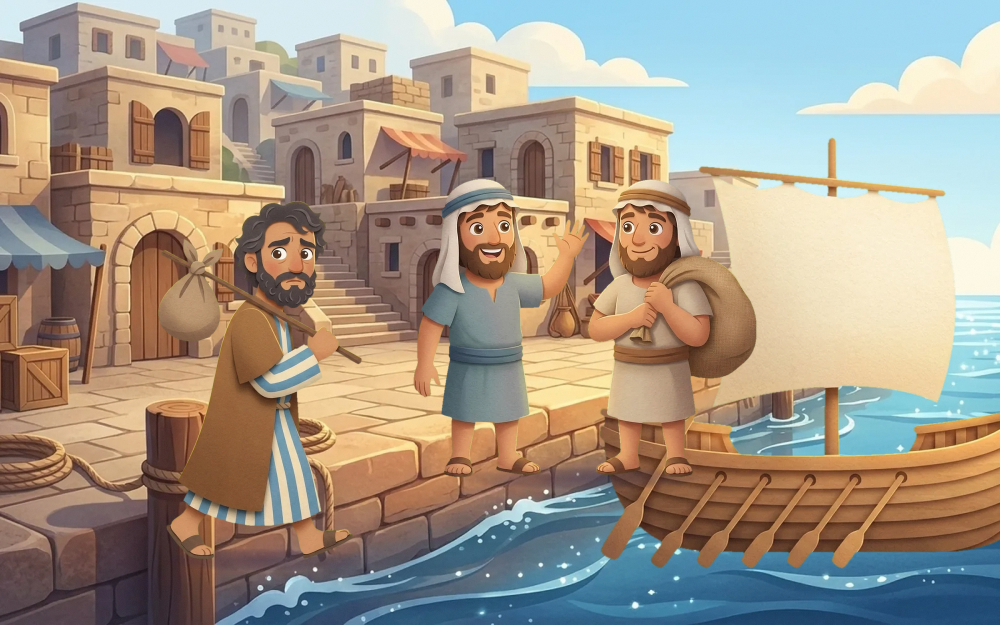
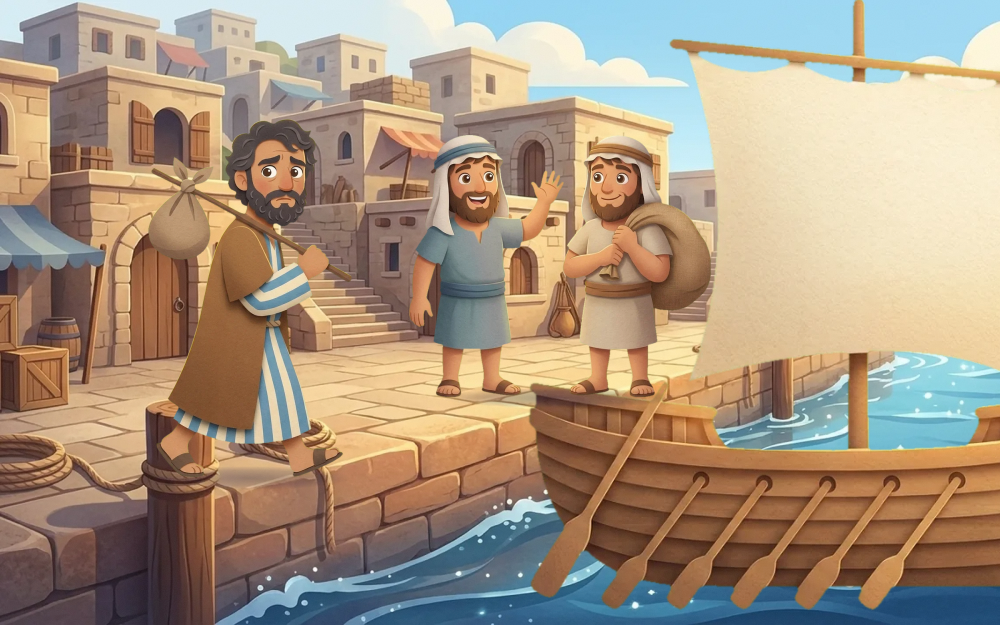
Stand the harbour figures on the quay, enlarge the ship, shuffle quiz choices
Jonah and the sailors were placed below the quay's front edge and read as
floating; their feet now sit on the top surface and the ship is moored at
the edge at 0.88. Quiz choices are shuffled once per quiz so the right
answer is no longer always the first option; story data still lists it
first for readability.

diff --git a/src/scenes/jonah.tsx b/src/scenes/jonah.tsx
@@ -61,17 +61,17 @@ export function RunningAway({ found }: SceneArtProps) {
     <>
       <Backdrop src={runBg} />
       {/* the ship rides at the quay's edge, on the water */}
-      <g transform="translate(840 570)">
+      <g transform="translate(870 612)">
         <g className="a-rock">
-          <image href={runShip} x={-L.ship.w * 0.31} y={-L.ship.h * 0.62} width={L.ship.w * 0.62} height={L.ship.h * 0.62} />
+          <image href={runShip} x={-L.ship.w * 0.44} y={-L.ship.h * 0.88} width={L.ship.w * 0.88} height={L.ship.h * 0.88} />
         </g>
       </g>
-      <SoftShadow x={585} y={478} rx={130} ry={12} opacity={0.4} />
-      <Layer src={runSailors} w={L.sailors.w} h={L.sailors.h} x={585} y={478} scale={0.5} className="a-breathe-slow">
+      <SoftShadow x={560} y={398} rx={120} ry={10} opacity={0.4} />
+      <Layer src={runSailors} w={L.sailors.w} h={L.sailors.h} x={560} y={398} scale={0.44} className="a-breathe-slow">
         <Eyelids {...EYES.sailors} w={L.sailors.w} h={L.sailors.h} delay={2.1} />
       </Layer>
-      <SoftShadow x={260} y={560} rx={100} ry={12} opacity={0.4} />
-      <Layer src={runJonah} w={L["jonah-walk"].w} h={L["jonah-walk"].h} x={260} y={560} scale={0.4} className="a-breathe">
+      <SoftShadow x={250} y={478} rx={100} ry={12} opacity={0.4} />
+      <Layer src={runJonah} w={L["jonah-walk"].w} h={L["jonah-walk"].h} x={250} y={478} scale={0.4} className="a-breathe">
         <Eyelids {...EYES.jonahWalk} w={L["jonah-walk"].w} h={L["jonah-walk"].h} />
       </Layer>
       {found.includes("ship") && <Sparkle x={840} y={300} s={1.6} />}

diff --git a/src/components/Quiz.tsx b/src/components/Quiz.tsx
@@ -15,11 +15,24 @@ interface Props {
  */
 export function Quiz({ story, onDone }: Props) {
   const progress = useProgress();
+  // Story data lists the right answer first for readability; shuffle each
+  // question's choices once per quiz so the answer is never always the top one.
   const questions = useMemo(
     () =>
-      story.quiz.filter((q) =>
-        progress.mode === "big" ? true : q.level === "little",
-      ),
+      story.quiz
+        .filter((q) => (progress.mode === "big" ? true : q.level === "little"))
+        .map((q) => {
+          const order = q.choices.map((_, i) => i);
+          for (let i = order.length - 1; i > 0; i--) {
+            const j = Math.floor(Math.random() * (i + 1));
+            [order[i], order[j]] = [order[j], order[i]];
+          }
+          return {
+            ...q,
+            choices: order.map((i) => q.choices[i]),
+            answerIndex: order.indexOf(q.answerIndex),
+          };
+        }),
     [story.quiz, progress.mode],
   );
 

diff --git a/src/data/stories/jonah.ts b/src/data/stories/jonah.ts
@@ -28,9 +28,9 @@ export const jonah: Story = {
       hotspots: [
         {
           id: "ship",
-          x: 82,
-          y: 62,
-          size: 28,
+          x: 84,
+          y: 66,
+          size: 30,
           label: "the ship",
           reward:
             "Nineveh was east. This ship is pointed west. Jonah knew exactly what he was doing.",
@@ -39,8 +39,8 @@ export const jonah: Story = {
         },
         {
           id: "jonah",
-          x: 26,
-          y: 66,
+          x: 25,
+          y: 52,
           size: 20,
           label: "Jonah",
           reward:
@@ -61,8 +61,8 @@ export const jonah: Story = {
       hotspots: [
         {
           id: "sailors",
-          x: 43,
-          y: 50,
+          x: 56,
+          y: 42,
           size: 22,
           label: "the frightened sailors",
           reward:

diff --git a/docs/evidence/2026-09-18-jonah-story-raster/cycles.md b/docs/evidence/2026-09-18-jonah-story-raster/cycles.md
@@ -10,3 +10,4 @@ Pass = characters match the Jonah sheet, scene reads as the same book, hotspots 
 | 02 | storm | P | storm-render.png, storm-lids-forced.png, story-sheet.png | sailors' lids in a scaled group, ship 0.62, Jonah inboard at (578,452) |
 | 03 | user review: running, storm, swallowed, nineveh | all P | story-sheet.png | harbour background regenerated with a full-width quay and realistic water; ship 0.62 on the water, sailors 0.5 on the stone beside Jonah 0.4; storm: four heaving wave layers, ship 0.8 inside the same heave as the near swell, crew 0.3 and Jonah 0.26 inside the hull; swallowed: Jonah drawn in the mouth with a one-shot drift into it, turtle, fish school, jellyfish, 14 rising bubbles; nineveh crowd 0.48 to match Jonah |
 | 04 | swallowed | P | swallowed-render.png, swallowed-mouth-zoom.png | Jonah drawn in front of the fish, head-first in the mouth, legs out; the drift replays from up-left |
+| 05 | running | P | running-render.png | figures moved up onto the quay top (feet at y 478 and 398 against an edge that runs from ~540 at the left to ~330 at the right); ship 0.88 moored at the quay edge |
